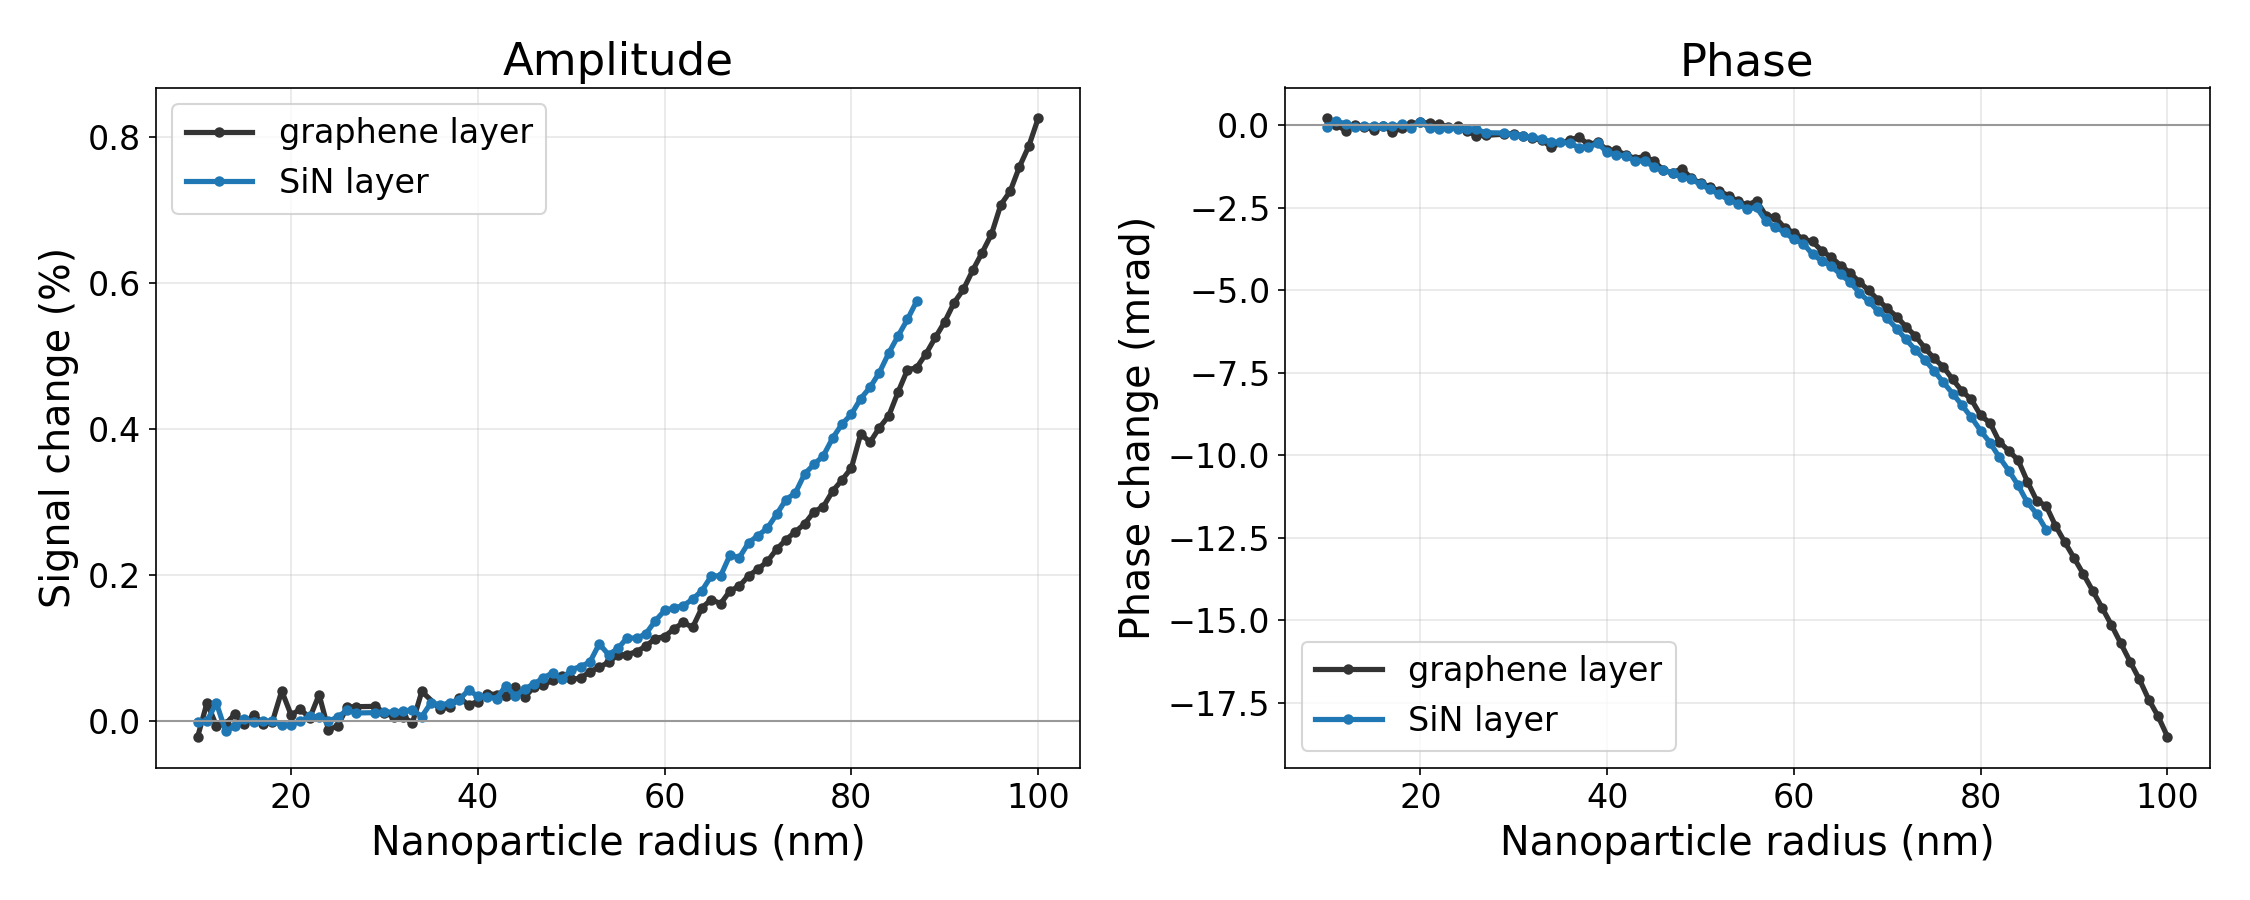
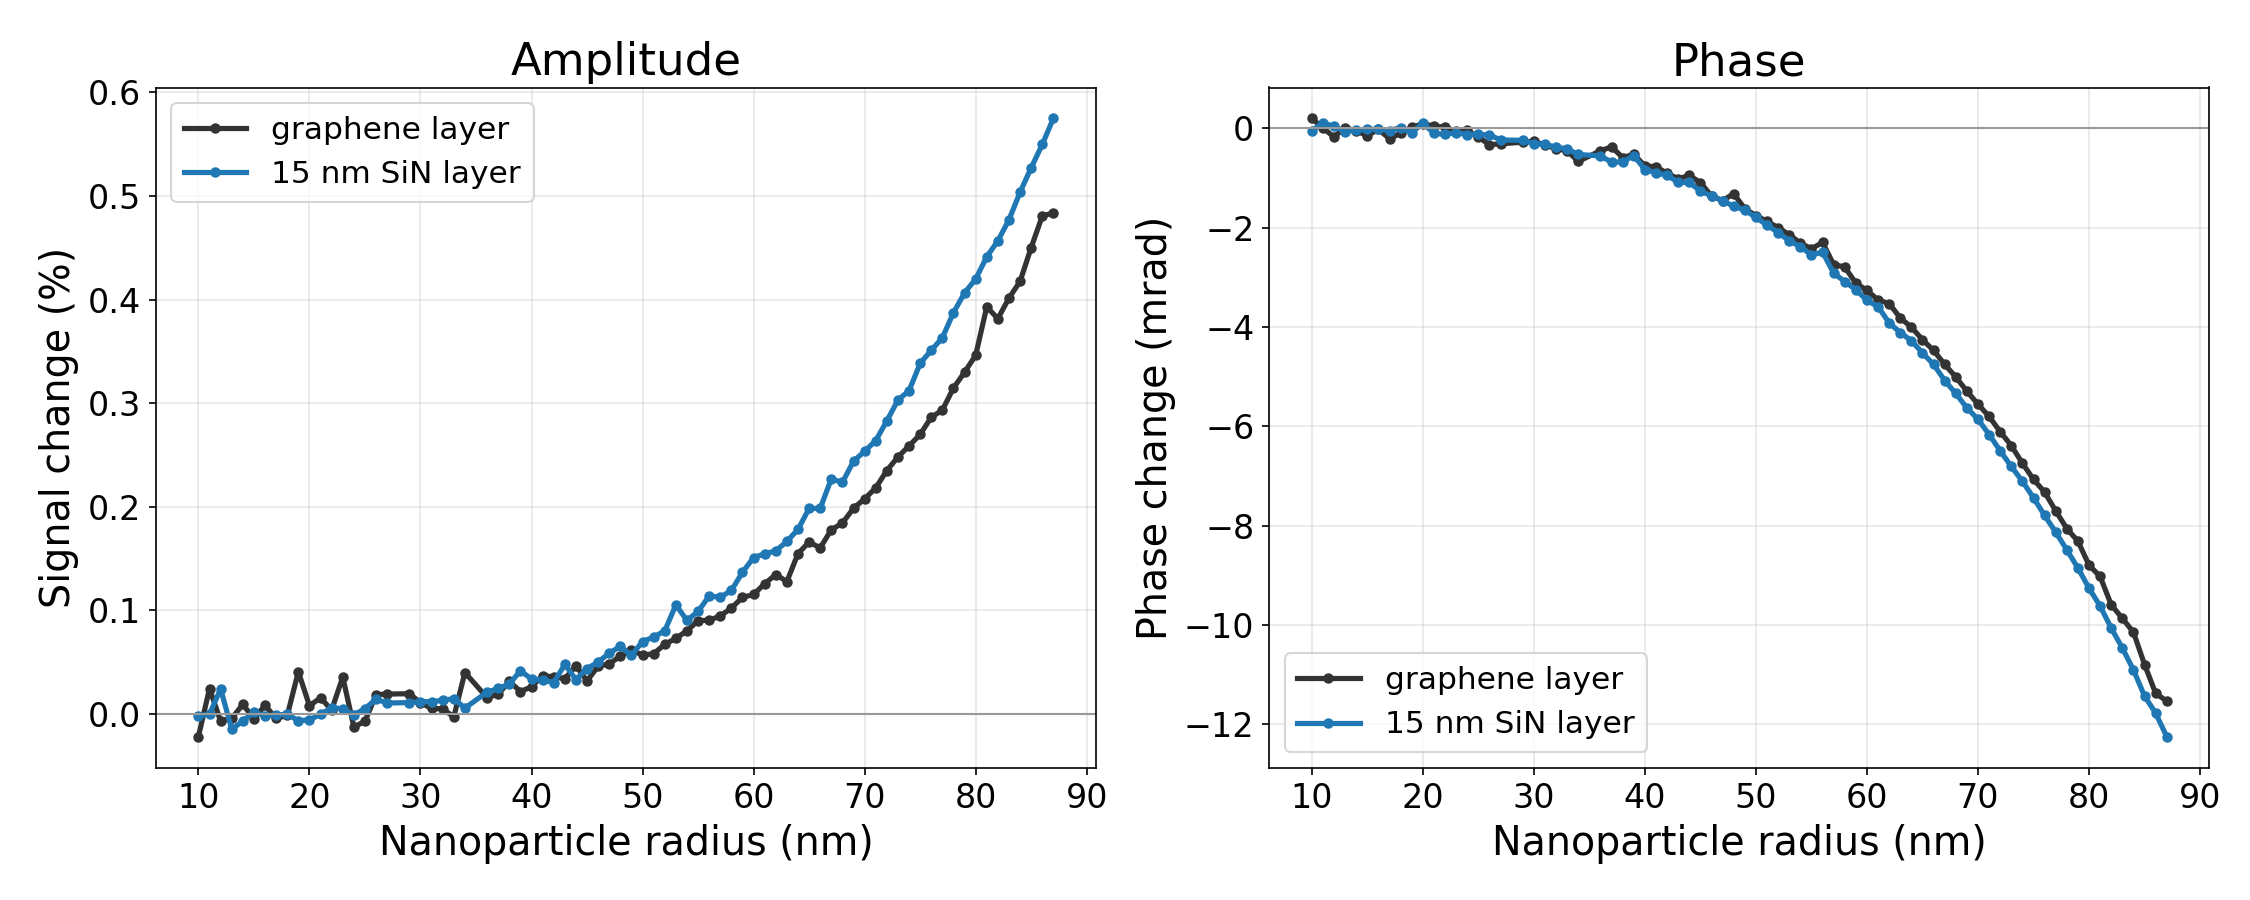
NP size WithLayer: common radii, graphene vs SiN comparison, detection limits

diff --git a/NP_size_replot/replot_np.py b/NP_size_replot/replot_np.py
@@ -111,3 +111,101 @@ def plot_withlayer():
         out = os.path.join(HERE, 'figures', 'np_size_withLayer.png')
         fig.savefig(out, dpi=150)
     print('wrote', out)
+
+
+def _withlayer_common():
+    """Graphene and SiN WithLayer sweeps on their common radii: r, {key: complex E}."""
+    data = {}
+    for key in ('Graphene', 'SN'):
+        d = pk.load(open(os.path.join(ROOT, 'Silicon Nitride NP', 'WithLayer', f'field_vs_NP_{key}.pkl'), 'rb'))
+        data[key] = dict(zip(np.asarray(d['radius'], float), [complex(np.ravel(x)[0]) for x in d['field']]))
+    r = np.array(sorted(set(data['Graphene']) & set(data['SN'])))
+    return r, {k: np.array([v[x] for x in r]) for k, v in data.items()}
+
+
+def withlayer_figures(k_sigma=3.0, inst=((0.1, 'amp', '%'), (1.0, 'ph', 'mrad'))):
+    """
+    1) amplitude / phase change vs radius, common radii only
+    2) direct comparison: graphene minus SiN, and the complex change |E - E_ref| / |E_ref| of both
+    3) detection limit: smallest radius where the fitted change (a + b r^3) exceeds k_sigma x the simulation
+       scatter, and where it exceeds an assumed instrument noise level (inst)
+    """
+    r, E = _withlayer_common()
+    cols = {'Graphene': ('graphene layer', '#333333'), 'SN': ('15 nm SiN layer', '#1f77b4')}
+    ch = {}
+    for k, e in E.items():
+        ref = e[:5].mean()
+        ch[k] = {'amp': (np.abs(e)/abs(ref) - 1)*100, 'ph': (np.unwrap(np.angle(e)) - np.angle(ref))*1e3,
+                 'cplx': np.abs(e - ref)/abs(ref)*100}
+    rc = {'font.size': 18, 'axes.labelsize': 19, 'xtick.labelsize': 16, 'ytick.labelsize': 16, 'legend.fontsize': 15}
+    # --- 1) common radii
+    with plt.rc_context(rc):
+        fig, ax = plt.subplots(1, 2, figsize=(15, 6))
+        for k, (lab, c) in cols.items():
+            ax[0].plot(r, ch[k]['amp'], 'o-', ms=4, lw=2.5, color=c, label=lab)
+            ax[1].plot(r, ch[k]['ph'], 'o-', ms=4, lw=2.5, color=c, label=lab)
+        ax[0].set(xlabel='Nanoparticle radius (nm)', ylabel='Signal change (%)', title='Amplitude')
+        ax[1].set(xlabel='Nanoparticle radius (nm)', ylabel='Phase change (mrad)', title='Phase')
+        for a in ax:
+            a.axhline(0, color='0.6', lw=1)
+            a.grid(alpha=0.3)
+            a.legend()
+        fig.tight_layout()
+        fig.savefig(os.path.join(HERE, 'figures', 'np_size_withLayer.png'), dpi=150)
+        plt.close(fig)
+    # --- 2) comparison
+    with plt.rc_context(rc):
+        fig, ax = plt.subplots(1, 2, figsize=(15, 6))
+        ax[0].plot(r, ch['Graphene']['amp'] - ch['SN']['amp'], 'o-', ms=4, lw=2.5, color='C3', label='amplitude (%)')
+        ax0b = ax[0].twinx()
+        ax0b.plot(r, ch['Graphene']['ph'] - ch['SN']['ph'], 's-', ms=4, lw=2.5, color='C2', label='phase (mrad)')
+        ax[0].set(xlabel='Nanoparticle radius (nm)', ylabel='Amplitude change: graphene − SiN (%)',
+                  title='Difference between the two layers')
+        ax0b.set_ylabel('Phase change: graphene − SiN (mrad)')
+        ax[0].axhline(0, color='0.6', lw=1)
+        h1, l1 = ax[0].get_legend_handles_labels()
+        h2, l2 = ax0b.get_legend_handles_labels()
+        ax[0].legend(h1 + h2, l1 + l2, loc='upper center', fontsize=13)
+        for k, (lab, c) in cols.items():
+            ax[1].plot(r, ch[k]['cplx'], 'o-', ms=4, lw=2.5, color=c, label=lab)
+        ax[1].set(xlabel='Nanoparticle radius (nm)', ylabel='|E − E_ref| / |E_ref| (%)',
+                  title='Total change (amp. + phase)')
+        ax[1].legend()
+        for a in ax:
+            a.grid(alpha=0.3)
+        fig.tight_layout()
+        fig.savefig(os.path.join(HERE, 'figures', 'np_size_withLayer_compare.png'), dpi=150)
+        plt.close(fig)
+    # --- 3) detection limits
+    rows = []
+    rr = np.linspace(r.min(), r.max(), 2000)
+    with plt.rc_context(rc):
+        fig, ax = plt.subplots(1, 2, figsize=(15, 6))
+        for j, (q, lab_q, unit) in enumerate((('amp', 'Amplitude', '%'), ('ph', 'Phase', 'mrad'))):
+            for k, (lab, c) in cols.items():
+                y = ch[k][q]
+                A = np.vstack([np.ones_like(r), r**3]).T
+                cf = np.linalg.lstsq(A, y, rcond=None)[0]
+                sig = np.std(y - A @ cf)
+                fit = np.abs(cf[1]*rr**3)                            # change relative to a tiny particle
+                lim_sim = rr[np.argmax(fit > k_sigma*sig)] if (fit > k_sigma*sig).any() else np.nan
+                lev = dict((n, v) for v, n, _ in inst)[q]
+                lim_inst = rr[np.argmax(fit > lev)] if (fit > lev).any() else np.nan
+                rows.append((lab, lab_q, sig, lim_sim, lev, unit, lim_inst))
+                ax[j].plot(r, np.abs(y - cf[0]), 'o', ms=3.5, color=c, alpha=0.7)
+                ax[j].plot(rr, fit, '-', lw=2.5, color=c, label=f'{lab}: r ≥ {lim_sim:.0f} nm ({k_sigma:g}σ sim)')
+                ax[j].axhline(k_sigma*sig, color=c, ls=':', lw=1.5)
+            ax[j].axhline(lev, color='C3', ls='--', lw=1.8, label=f'assumed instrument noise {lev:g} {unit}')
+            ax[j].set_yscale('log')
+            ax[j].set_ylim(1e-3 if q == 'amp' else 1e-2, None)
+            ax[j].set(xlabel='Nanoparticle radius (nm)', ylabel=f'|{lab_q.lower()} change| ({unit})',
+                      title=f'{lab_q}: detection limit')
+            ax[j].grid(alpha=0.3, which='both')
+            ax[j].legend(fontsize=12, loc='lower right')
+        fig.tight_layout()
+        fig.savefig(os.path.join(HERE, 'figures', 'np_size_withLayer_detection.png'), dpi=150)
+        plt.close(fig)
+    print(f'common radii {r.min():g}-{r.max():g} nm ({len(r)})')
+    for lab, q, sig, ls, lev, unit, li in rows:
+        print(f'{lab:16s} {q:9s} sim scatter {sig:.3g} {unit}; {k_sigma:g}σ limit r = {ls:.0f} nm; '
+              f'limit at {lev:g} {unit} noise r = {li:.0f} nm')
